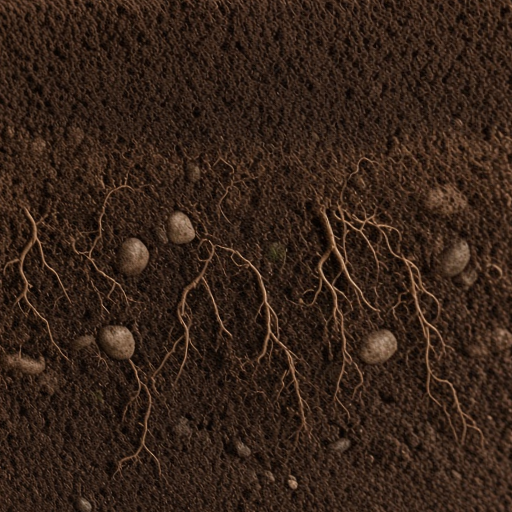
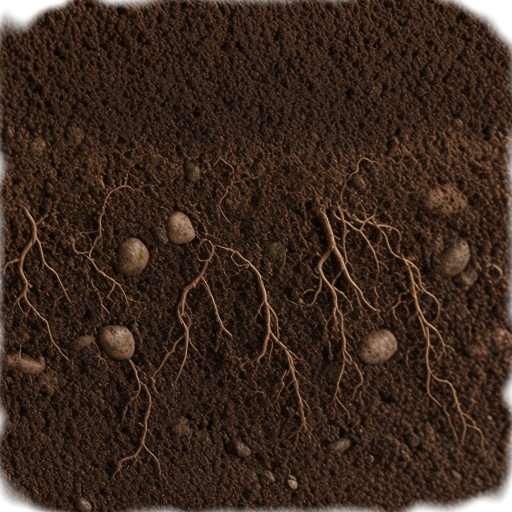
Keep soil cubes cubic when zooming, and wear the corners.
Zoom was a flat scale, so depth stayed put and the cubes turned into slabs. The face textures now fade out at the corners.

diff --git a/soil-cube/index.html b/soil-cube/index.html
@@ -140,7 +140,7 @@
     .face {
       position: absolute;
       inset: 0;
-      background: var(--soil);
+      background: transparent;
     }
 
     .face img {
@@ -286,8 +286,10 @@
 
       function applyView() {
         var scale = fitScale() * state.zoom;
+        // scale() leaves depth at 1, so the cube flattens into a rectangle
+        // as you zoom. scale3d keeps width, height, and depth together.
         rig.style.transform =
-          "rotateX(" + state.rx + "deg) rotateY(" + state.ry + "deg) scale(" + scale + ")";
+          "rotateX(" + state.rx + "deg) rotateY(" + state.ry + "deg) scale3d(" + scale + ", " + scale + ", " + scale + ")";
       }
 
       function refresh() {

diff --git a/soil-cube/notes/findings.md b/soil-cube/notes/findings.md
@@ -6,6 +6,8 @@ Rows run back from the front. Three sliders set how many cubes sit across, how m
 
 The slice stack is gone.
 
+Zoom scales width, height, and depth together, so a cube stays a cube. The corners of each face texture fade out, with a rough edge rather than a perfect curve, so the corners are not a sharp square. That is a cutout: at the corner you see a little of the background, not a solid round edge. The middles of the edges stay opaque so the faces still meet.
+
 The top is softer than the photo, because that face was a shallow band and had to be stretched square. The photo never shows the back or the far side, so those faces repeat a cut.
 
 ## How to open
